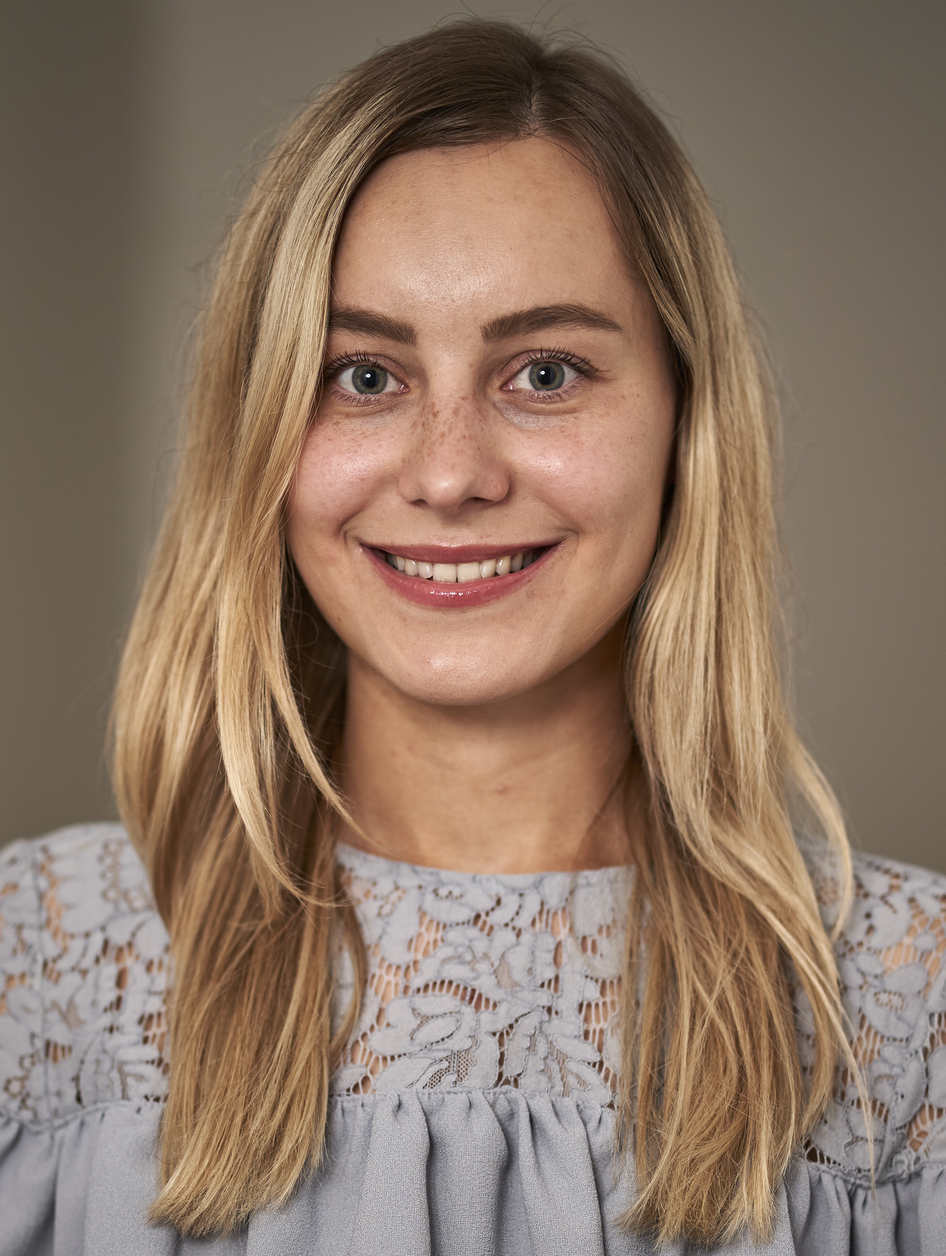
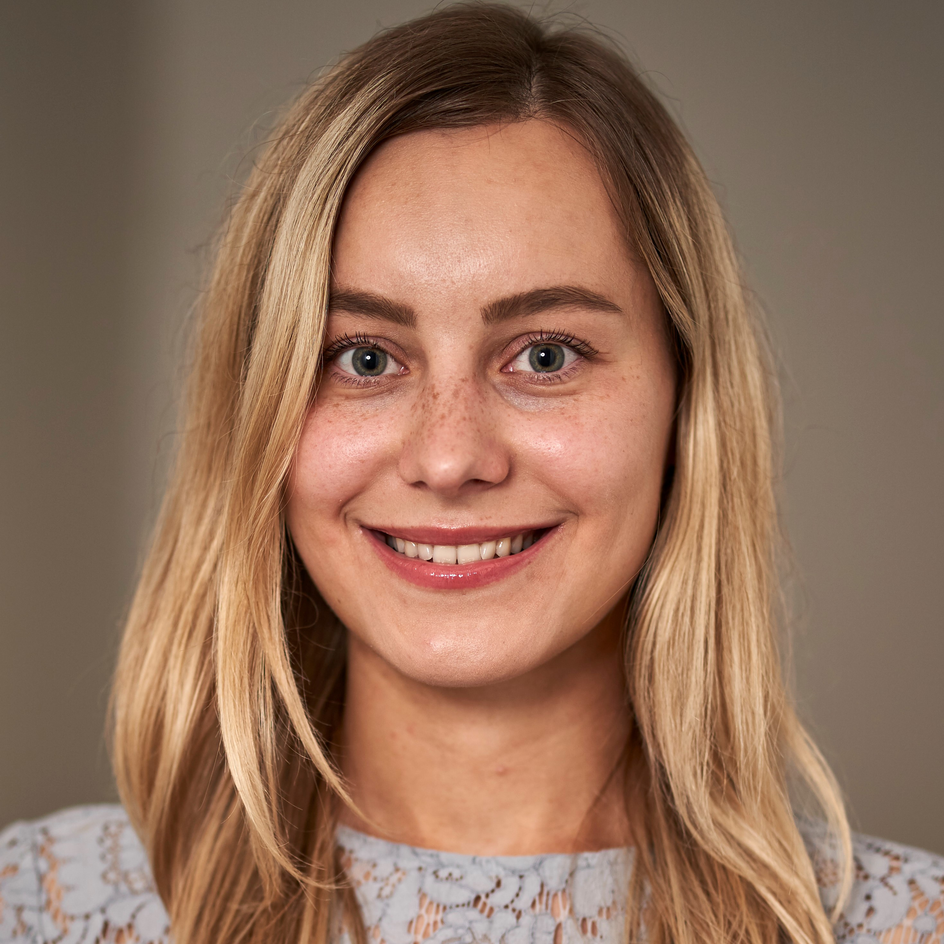
added footer and contact

diff --git a/src/Contact.jsx b/src/Contact.jsx
@@ -1,10 +1,25 @@
-import React from "react";
+import React, { useRef } from "react";
 import "./contact.css";
 import { MdOutlineEmail } from "react-icons/md";
 import { AiFillLinkedin } from "react-icons/ai";
 import { AiOutlineInstagram } from "react-icons/ai";
+import emailjs from "@emailjs/browser";
 
 const Contact = () => {
+  const form = useRef();
+
+  const sendEmail = (e) => {
+    e.preventDefault();
+
+    emailjs.sendForm(
+      "service_2fr9n39",
+      "template_ef3pweq",
+      form.current,
+      "Ma658sUf9E4oq-i1t"
+    );
+    e.target.reset();
+  };
+
   return (
     <section id="contact">
       <h5>Let's get in touch!</h5>
@@ -15,8 +30,12 @@ const Contact = () => {
           <article className="contact-option">
             <MdOutlineEmail className="contact-option-icon" />
             <h4>Email</h4>
-            <a href="mailto:komisssarova.uk@gmail.com" target="_blank" rel="noopener noreferrer">
-              Send a message
+            <a
+              href="mailto:komisssarova.uk@gmail.com"
+              target="_blank"
+              rel="noopener noreferrer"
+            >
+              
             </a>
           </article>
           <article className="contact-option">
@@ -33,13 +52,17 @@ const Contact = () => {
           <article className="contact-option">
             <AiOutlineInstagram className="contact-option-icon" />
             <h4>Instagram</h4>
-            <a href="https://www.instagram.com/komisssarova/" target="_blank" rel="noopener noreferrer">
+            <a
+              href="https://www.instagram.com/komisssarova/"
+              target="_blank"
+              rel="noopener noreferrer"
+            >
               Get in touch
             </a>
           </article>
         </div>
         {/* END OF CONTACT OPTIONS */}
-        <form action="">
+        <form ref={form} onSubmit={sendEmail}>
           <input
             type="text"
             name="name"
@@ -56,6 +79,7 @@ const Contact = () => {
           <button type="submit" className="btn btn-primary">
             Send Message
           </button>
+        
         </form>
       </div>
     </section>

diff --git a/src/Footer.jsx b/src/Footer.jsx
@@ -1,20 +1,36 @@
 import React from "react";
 import "./footer.css";
+import { BsLinkedin } from "react-icons/bs";
+import { FaGithub } from "react-icons/fa";
+import { SiNetlify } from "react-icons/si";
 
-export default function Footer() {
-    return (
-      <div className="App-footer">
-        <small>
-          Coded by{" "}
-          <a href="https://www.linkedin.com/in/kateryna-komisarova/">
-            Kateryna Komisarova
-          </a>{" "}
-          and hosted on{" "}
-          <a href="https://github.com/komisssarova/new-project">GitHub</a> and{" "}
-          <a href="https://astonishing-heliotrope-50618a.netlify.app/">
-            Netlify
-          </a>
-        </small>
+const Footer = () => {
+  return (
+    <footer>
+      <div className="permalinks">
+        <a href="#app">Home</a>
+
+        <a href="#about">About</a>
+
+        <a href="#portfolio">Portfolio</a>
+
+        <a href="#services">Services</a>
+
+        <a href="#contact">Contact</a>
       </div>
-    );
-}
+      <div className="footer-socials">
+        <a href="https://www.linkedin.com/in/kateryna-komisarova/">
+          <BsLinkedin />
+        </a>
+        <a href="https://github.com/komisssarova/new-project">
+          <FaGithub />
+        </a>
+        <a href="https://astonishing-heliotrope-50618a.netlify.app/">
+          <SiNetlify />
+        </a>
+      </div>
+    </footer>
+  );
+};
+
+export default Footer;

diff --git a/src/footer.css b/src/footer.css
@@ -1,0 +1,57 @@
+footer {
+    background: var(--color-primary);
+    padding: 3rem 0;
+    text-align: center;
+    font-size: 0.9rem;
+    margin-top: 7rem;
+}
+
+footer a {
+    color: var(--color-bg);
+    text-decoration: none;
+    display: inline;
+}
+
+.permalinks {
+    display: flex;
+    flex-wrap: wrap;
+    justify-content: center;
+    gap: 2rem;
+    margin: 0 auto 3rem;
+    
+}
+
+.footer-socials {
+    display: flex;
+    justify-content: center;
+    gap: 1rem;
+    margin-bottom: 4rem;
+}
+
+.footer-socials a {
+    background: var(--color-bg);
+    color: var(--color-white);
+    padding: 0.8rem;
+    border-radius: 0.7rem;
+    display: flex;
+    border: 1px solid transparent;
+}
+
+.footer-socials a:hover {
+    background: transparent;
+    color: var(--color-bg);
+    border-color: var(--color-bg);
+}
+
+/* ========= MEDIA QUERIES (SMALL DEVICES) =============== */
+
+@media screen and (max-width: 600px) {
+   .permalinks {
+     flex-direction: column;
+     gap: 1.5rem;
+   }
+   
+   .footer-socials {
+    margin-bottom: 2.6rem;
+   }
+}

diff --git a/src/Header.jsx b/src/Header.jsx
@@ -10,11 +10,11 @@ export default function Header() {
       <div className="container header-container">
         <h5>Hello I'm</h5>
         <h1>Kateryna Komisarova</h1>
-        <h5 className="text-light">Front-End Developer</h5>
+        <h5 className="text-light">Junior Front-End Developer</h5>
         <CTA />
         <HeaderSocials />
         <div className="me">
-          <img src="cvpicture.jpg" alt="Kateryna portrait" />
+          <img src="mecv.jpg" alt="Kateryna portrait" />
         </div>
         <a href="#contact" className="scroll-down">
           Scroll down

diff --git a/src/header.css b/src/header.css
@@ -36,15 +36,16 @@ header {
 
 /* ============= KATERYNA PORTRAIT ============ */
 .me {
-  background: linear-gradient(var(--color-primary), transparent);
+  
   width: 22rem;
-  height: 30rem;
+  height: 50rem;
   position: absolute;
   left: calc(50% - 11rem);
-  margin-top: 4rem;
-  border-radius: 12rem 12rem 0 0;
+  margin-bottom: 1.5rem;
+  border-radius: 5px;
   overflow: hidden;
-  padding: 5rem 1.5rem 1.5rem 1.5rem;
+  padding: 1.5rem;
+  
 }
 /* ================= SCROLL DOWN ============== */
 .scroll-down {

diff --git a/src/About.jsx b/src/About.jsx
@@ -5,7 +5,6 @@ import { VscFolderLibrary } from "react-icons/vsc";
 const About = () => {
   return (
     <section id="about">
-      <h5>Get To Know</h5>
       <h2>About Me</h2>
       <div className="container about-container">
         <div className="about-me">

diff --git a/src/contact.css b/src/contact.css
@@ -1,3 +1,5 @@
+
+
 .container.contact-container {
     width: 58%;
     display: grid;
@@ -37,12 +39,15 @@
 }
 
 
+
+
 /* ============ FORM ============== */
 
 form {
     display: flex;
     flex-direction: column;
     gap: 1.2rem;
+    
 }
 
 input, textarea {

diff --git a/src/nav.css b/src/nav.css
@@ -28,6 +28,6 @@ nav a:hover {
 }
 
 nav a.active {
-  background: var(--color-bg);
-  color: var(--color-white);
+  background: var(--color-primary);
+  color: var(--color-bg);
 }
